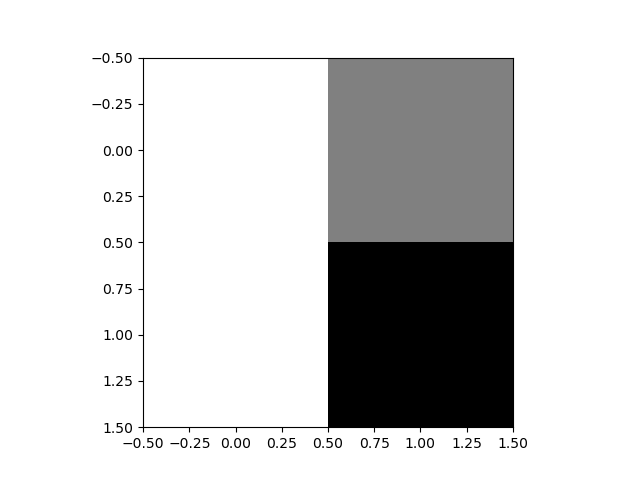
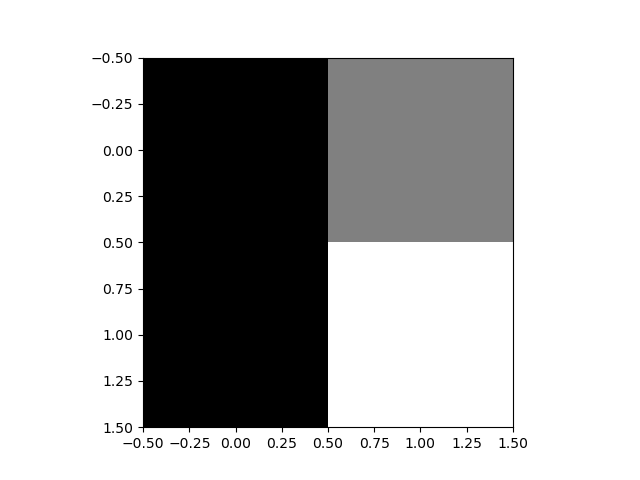
Added converters for 2s complement; now works with negative numbers

diff --git a/sim.py b/sim.py
@@ -7,6 +7,18 @@ from conv_parallel import *
 def flatten(l): return [val for sublist in l for val in sublist]
 
 
+def int_to_binary(n, bits):
+    s = bin(n & ((1 << bits) - 1))[2:]
+    return f'{s:0>{bits}}'
+
+
+def binary_to_int(n, bits):
+    val = int(n, 2)
+    if (val & (1 << (bits - 1))):
+        val -= (1 << bits)
+    return val
+
+
 # Input
 A = [
     [2, 0, 1, 1],
@@ -17,12 +29,10 @@ A = [
 
 # Kernel
 K = [
-    [1, 0, 1],
+    [-1, 0, -1],
     [0, 0, 0],
-    [0, 1, 0]
+    [0, -1, 0]
 ]
-
-# TODO: Change binary conversion to use 2's complement to support negative numbers
 
 # # Sobel Kernel
 # K = [
@@ -57,8 +67,8 @@ sim = rtl.Simulation(tracer=sim_trace)
 # sim.step_multiple(sim_inputs)
 
 sim_inputs = {
-    'A': int(''.join([f'{i:08b}' for i in flat_a]), 2),
-    'K': int(''.join([f'{i:08b}' for i in flat_k]), 2)
+    'A': int(''.join([int_to_binary(i, bitwidth) for i in flat_a]), 2),
+    'K': int(''.join([int_to_binary(i, bitwidth) for i in flat_k]), 2)
 }
 
 # Show initial image
@@ -82,7 +92,7 @@ for cycle in range(1):
         for c in range(cols_r):
             binary_value = raw_binary[row_r * r + bitwidth * c:
                                       row_r * r + bitwidth * (c + 1)]
-            result_matrix[r][c] = int(binary_value, 2)
+            result_matrix[r][c] = binary_to_int(binary_value, bitwidth)
 
     print('[')
     for row in result_matrix:
